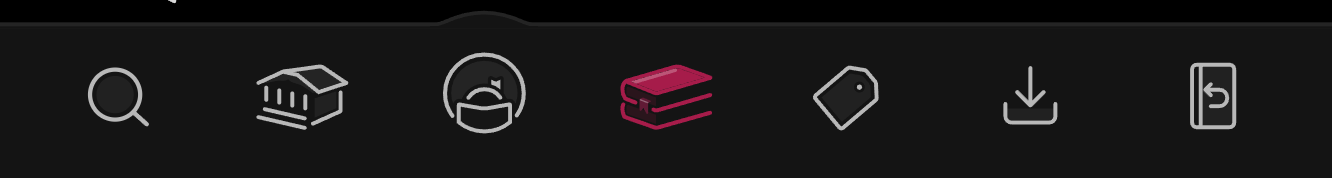
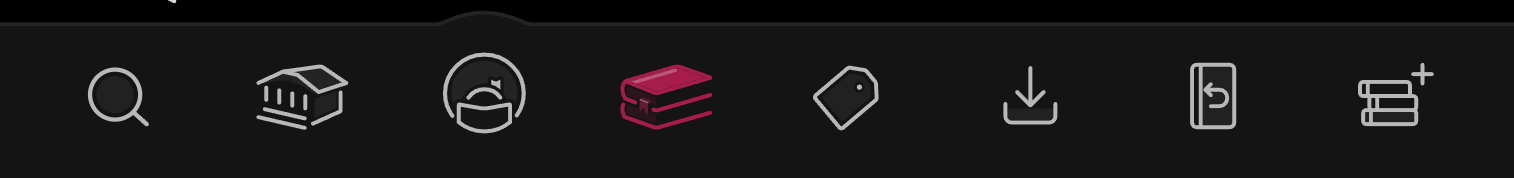
README: screenshots with "check" wording, the Borrow list and all three buttons

diff --git a/README.md b/README.md
@@ -5,7 +5,7 @@ you're done. Borrow a whole series in one go.
 
 bookhoard adds buttons to the bottom of Libby in your browser:
 
-![Libby's footer with bookhoard's Download and Return buttons on the right](docs/footer.png)
+![Libby's footer with bookhoard's Download, Return and Borrow buttons on the right](docs/footer.png)
 
 - **Download** saves every book you've borrowed, named like `Children of Time - Adrian Tchaikovsky`.
 - **Return** sends back the books you pick.
@@ -64,6 +64,8 @@ Books you haven't downloaded yet start unchecked, so you don't return one by acc
 1. Open a book that's part of a series, or the series itself.
 2. Click **Borrow** at the bottom. On a book's page, bookhoard opens its series first.
 3. Check the books you want, then click **Borrow**. Books with a waitlist get a hold instead.
+
+![The Borrow list for a series, with a checkbox for each book](docs/borrow.png)
 
 bookhoard uses whichever of your libraries has a copy now. If a library card needs verifying, it
 tries your other libraries instead. If none of them can lend the book, it skips it and says so;
